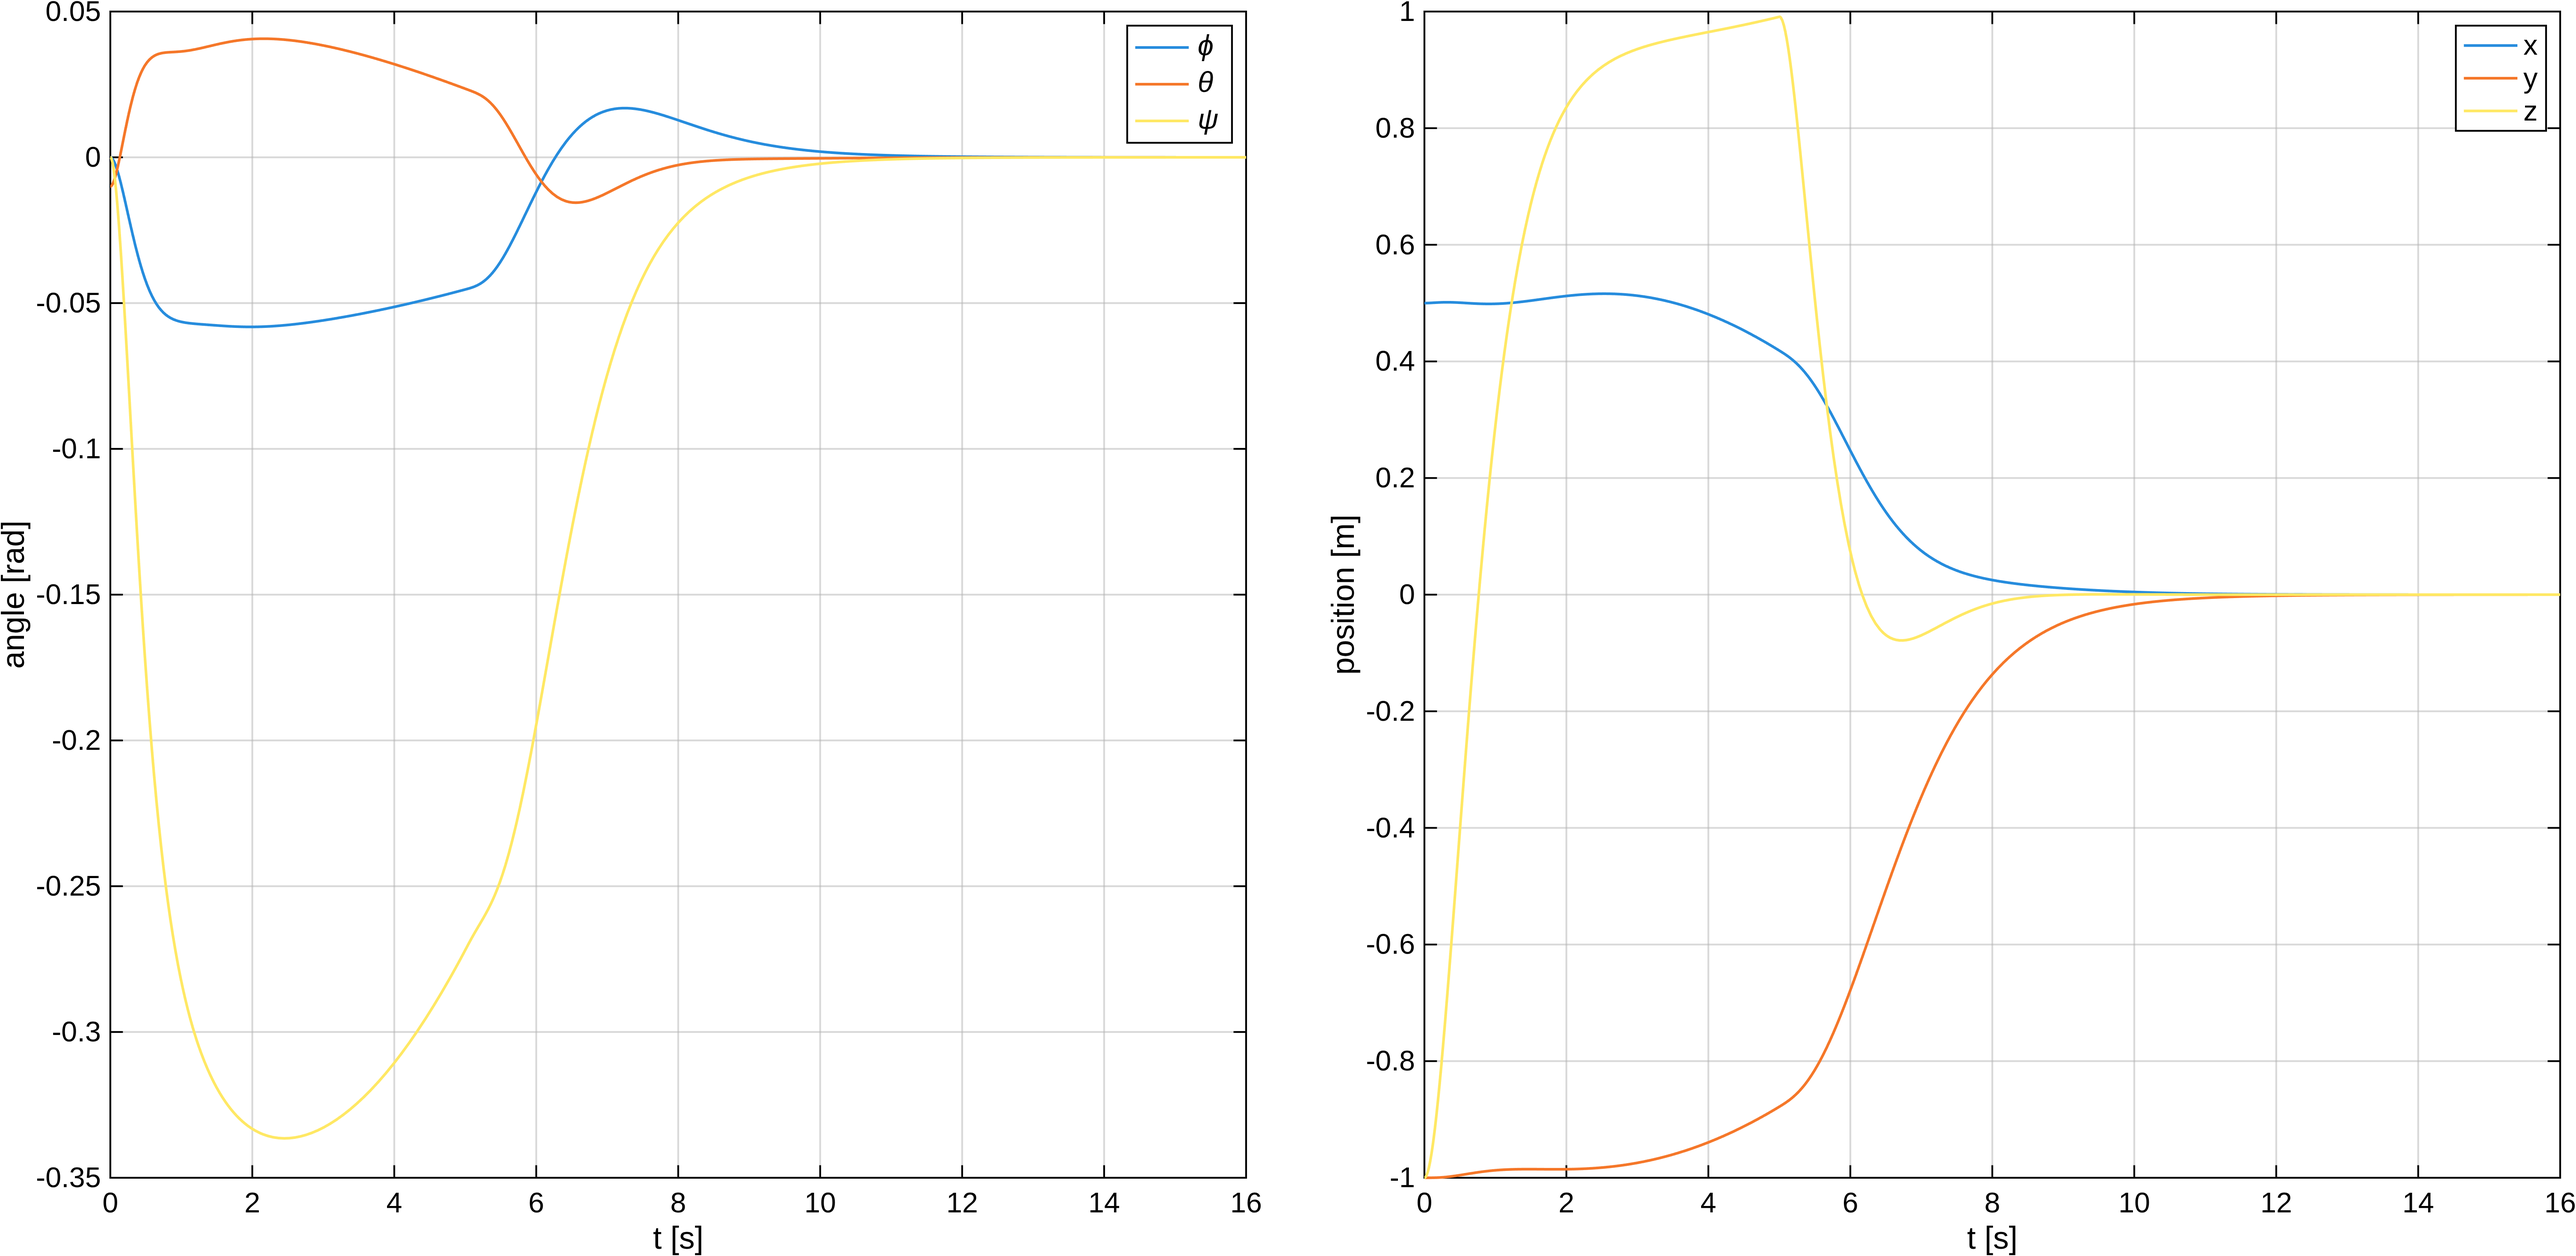
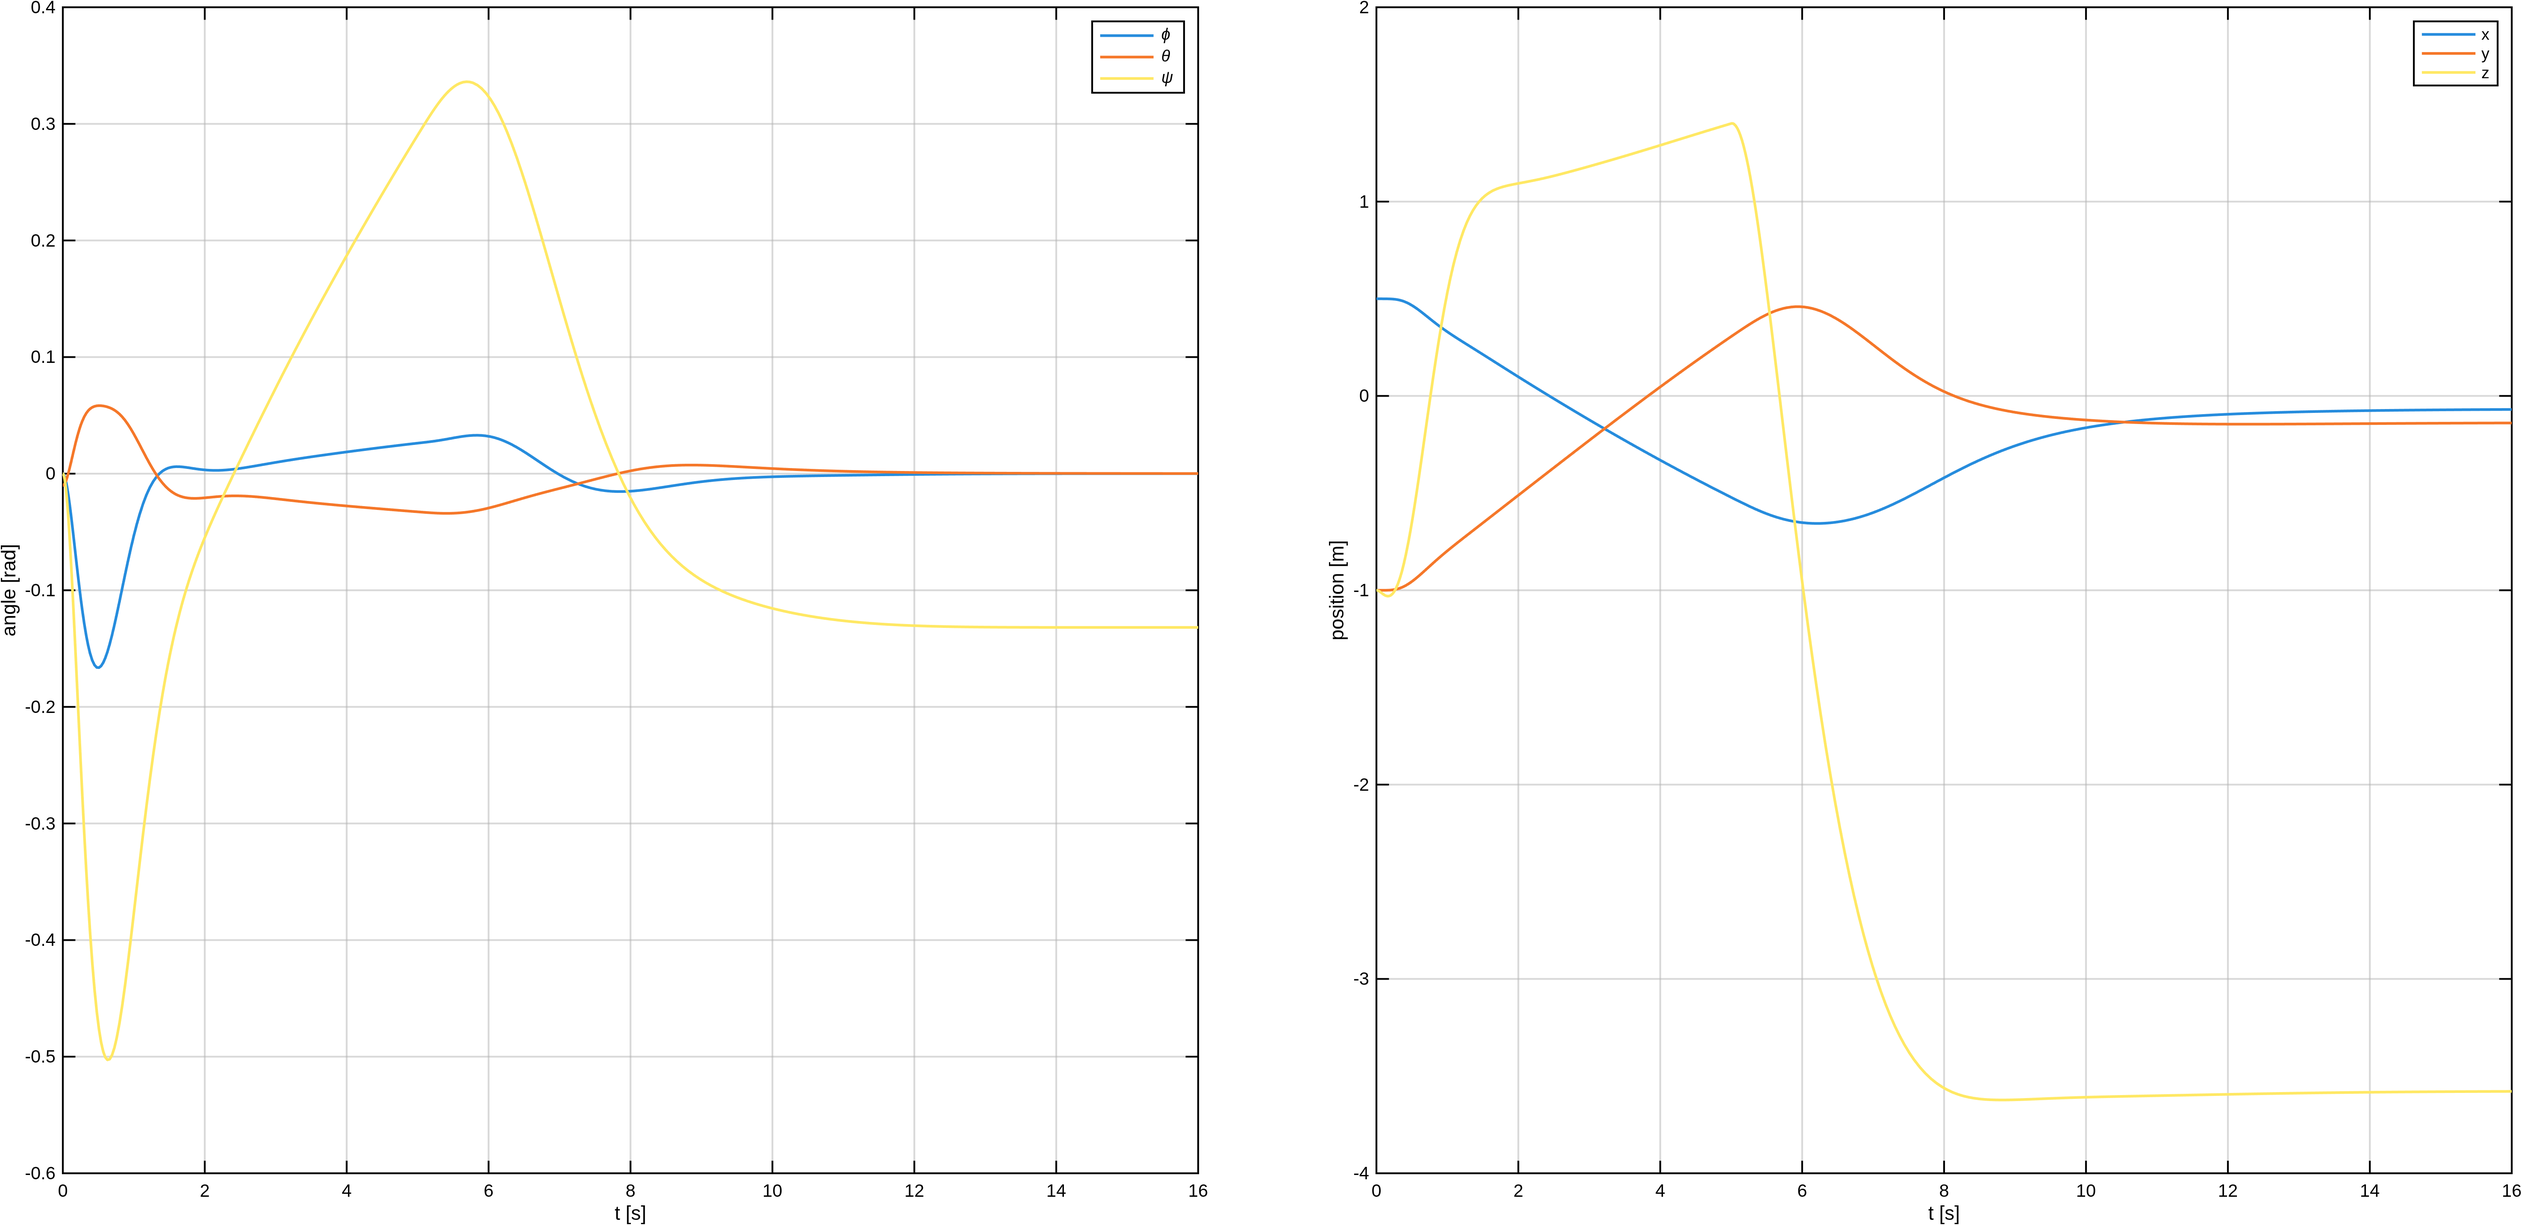
Closed loop est-ctl working hallelugha

diff --git a/visualize.m b/visualize.m
@@ -1,4 +1,8 @@
 function visualize(t,y)
+% toggles
+f1 = 1;
+f2 = 1;
+f3 = 0;
 % visualization functions 
 R = diag([1 -1 -1]);
 y(:,1:3) = y(:,1:3)*R'; %convert to NWU
@@ -36,6 +40,7 @@ set(groot,'defaultLineLineWidth',1.5);
 set(groot,'defaultAxesLineWidth',1.0);
 
 %% plotting
+if f1
 figure('Color','w','Position',[100 100 1750 900]);
 plot3(y(:,1),y(:,2),y(:,3));
 hold on;
@@ -53,7 +58,9 @@ grid on;
 % ylim(lims)
 % zlim(lims)
 set(findall(gcf,'Type','ax'),'FontSize',20)
+end
 
+if f2
 figure('Color','w','Position',[100 100 1750 900]);
 
 tiledlayout(1,2, ...
@@ -75,14 +82,24 @@ xlabel("t [s]")
 ylabel("position [m]")
 legend("x","y","z")
 grid on
+end
+
+if f3
+% Z
+figure('Color','w','Position',[100 100 1750 900]);
+plot(t,y(:,13:15))
+xlabel("t [s]")
+legend("z_1","z_2","z_3")
+grid on
+end
 
 set(findall(gcf,'Type','legend'),'FontSize',16)
 set(findall(gcf,'Type','legend'),'Color','w','TextColor','k','EdgeColor','k')
 set(findall(gcf,'Type','ax'),'FontSize',16)
 
 %% export
-figure(1)
-exportgraphics(gcf,'/home/joe/Documents/ECE682/project/figures/full_state_fb_control_3d.png', 'Resolution',300);
-figure(2)
-exportgraphics(gcf,'/home/joe/Documents/ECE682/project/figures/full_state_fb_control.png','Resolution',300);
+% figure(1)
+% exportgraphics(gcf,'/home/joe/Documents/ECE682/project/figures/full_state_fb_control_3d.png', 'Resolution',300);
+% figure(2)
+% exportgraphics(gcf,'/home/joe/Documents/ECE682/project/figures/full_state_fb_control.png','Resolution',300);
 end

diff --git a/quad_dynamics_inertial.m b/quad_dynamics_inertial.m
@@ -1,4 +1,4 @@
-function [x_] = quad_dynamics_inertial(t,x,ctl,wind,params,F)
+function [x_] = quad_dynamics_inertial(t,x,ctl,wind,params,F,observer)
 %x
 % Eq. 2.24 in Sabatino with state vector as 
 % x = [(pos(I), [roll, pitch, yaw] (I), vel(I), ,ang velocity(B)]
@@ -9,6 +9,8 @@ function [x_] = quad_dynamics_inertial(t,x,ctl,wind,params,F)
 % we make the simplifying assumption that d[roll pitch yaw]/dt = [p q r]
 % for calculating the angular accelerations
 
+% observer is an additional 3 states tacked on
+
 m = params(1);
 Ix = params(2);
 Iy = params(3);
@@ -17,7 +19,7 @@ g = params(5);
 
 [R, T] = body_to_inertial(x(4),x(5),x(6));
 
-x_ = zeros([12 1]);
+x_ = zeros([15 1]);
 
 p = x(10);
 q = x(11);
@@ -42,12 +44,16 @@ d(10:12,4:6) = [1/Ix 0 0; %torques in body frame, dont need to be moved
                 0 1/Iy 0;
                 0 0 1/Iz];
 
-ctl_ = F*x + ctl; %full state feedback control
-if norm(ctl_)
-    ctl_
-end
-x_ = x_ + g*ctl_+d*wind;
-% t
+y = observer.C*x(1:12);
+z = x(13:15);
+x_hat = observer.Q*z+observer.S*y;
+
+% ctl_ = F*x + ctl; %full state feedback control
+ctl_ = F*x_hat + ctl; % estimator feedback control
+
+x_(1:12) = x_(1:12) + g*ctl_+d*wind;
+x_(13:15) = observer.M*z+observer.N*(ctl_-ctl)+observer.P*y;
+
 end
 
 

diff --git a/run_sim.m b/run_sim.m
@@ -3,34 +3,33 @@ m = params(1);
 g = params(5);
 wind = zeros(6,1);
 
+% dynamics are 12 states
 x_0 = [0.5 1 1 ...
-    0 -0.01 0 ...
+    0.1 -0.1 1 ...
     0 0 0 ...
     -0.001 0 0]; % slight curve
 
-% x_0 = [0 0 0 ...
-%     0 0 0 ...
-%     0 0 0 ...
-%     0 0 0];
+% min obs is 3 states
+z_0 = [0 0 0] 
+x0 = [x_0 z_0];
 
+data = load("F.mat");
+F = data.F
+observer = data.observer 
 u_eq = [m*g 0 0 0]';
+f = @(t,x) (quad_dynamics_inertial(t,x,u_eq,generate_wind(t),params,F,observer));
 
-% f = @(t,x) (quad_dynamics_inertial(x,u,wind,params));
-F = load("F.mat").F;
-f = @(t,x) (quad_dynamics_inertial(t,x,u_eq,generate_wind(t),params,F));
-
-% [t,y] = ode45(f,[0, 1],x_0); % y in NED inertial coordinates
 tend = 16;
 opts = odeset('Stats','on');
-[t,y] = ode45(f,[0, tend],x_0,opts); % y in NED inertial coordinates
+[t,y] = ode45(f,[0, tend],x0,opts); % y in NED inertial coordinates
 
-%% Visualize data
+% Visualize data
 close all;
 visualize(t,y)
 
 %% local function
 function [wind] = generate_wind(t)
-    if t < 5
+    if t < 0
         wind = [0 0 -5 0 0 0]';
     else
         wind = zeros(6,1);
